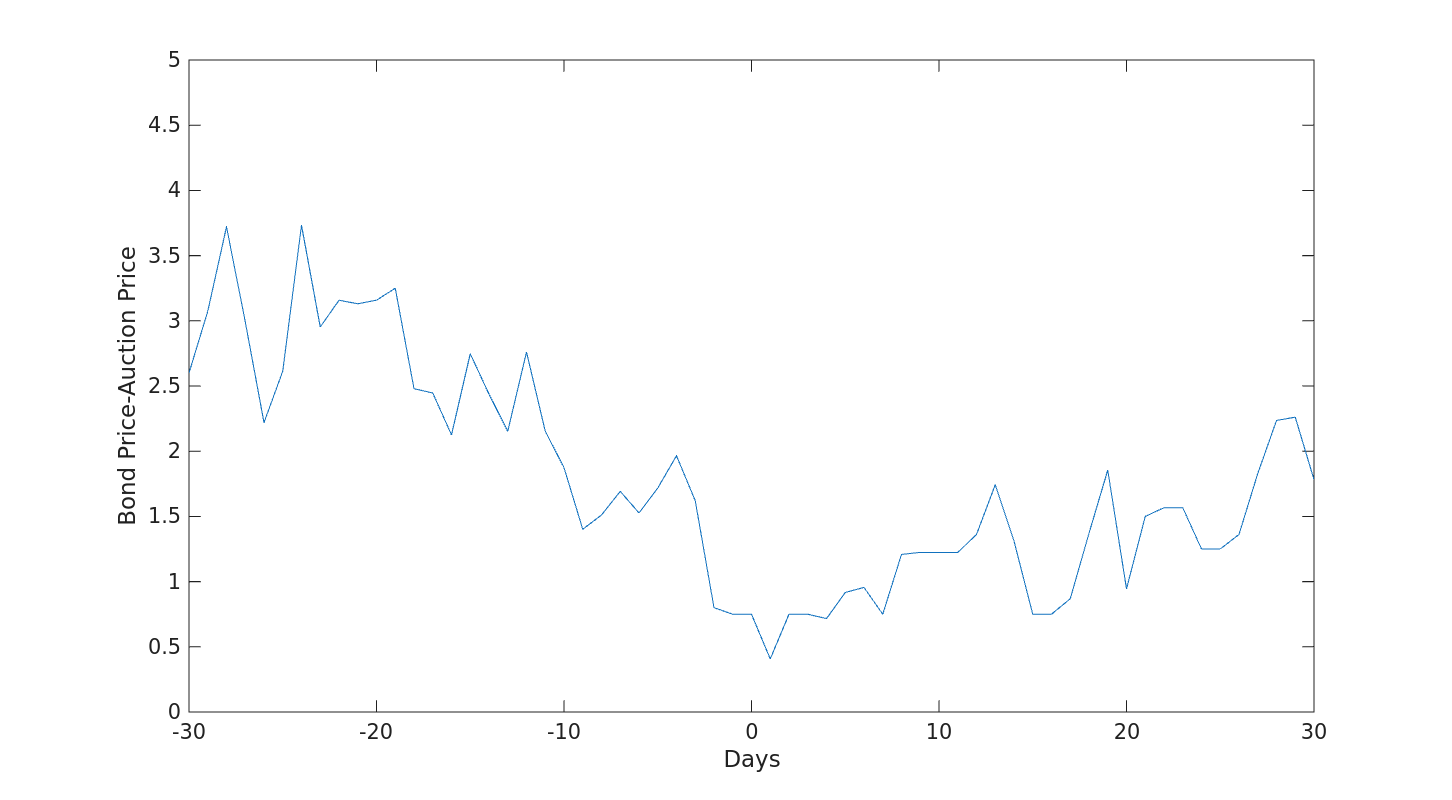
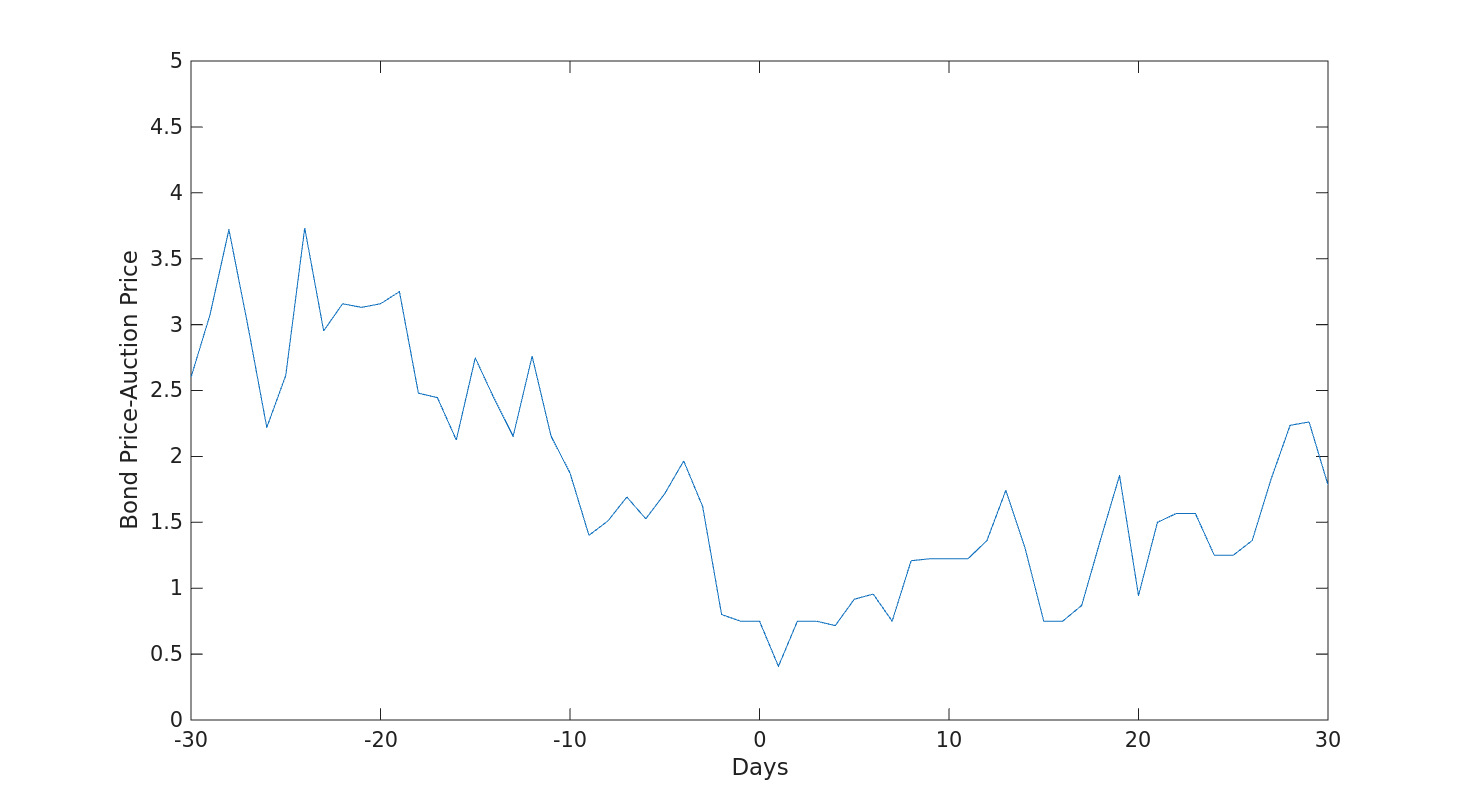
R1. After adjustment, hit another error at Stage 2 in data_summary.m (see cdsresults_log2_3.txt)

diff --git a/replication-package/CDS/output/tables/table1.tex b/replication-package/CDS/output/tables/table1.tex
@@ -1,0 +1,22 @@
+\begin{table}[htbp]
+\centering
+\caption{Initial Stage Quantities (Parker Drilling)}
+\label{tab:quantities}
+\begin{tabular}{lcc}
+\hline\hline
+Dealer & Bid/Offer & Size (\$M) \\
+\hline
+bnpparibas & Offer & 9.000 \\
+barclays & Offer & 26.974 \\
+societegenerale & -- & 0.000 \\
+merrilllynch & -- & 0.000 \\
+goldmansachs & -- & 0.000 \\
+morganstanley & Offer & 7.953 \\
+deutschebank & -- & 0.000 \\
+jpmorgan & Offer & 10.000 \\
+suisse & Bid & 6.530 \\
+\hline
+Net Open Interest & Offer & 47.397 \\
+\hline\hline
+\end{tabular}
+\end{table}

diff --git a/replication-package/CDS/output/tables/table2.tex b/replication-package/CDS/output/tables/table2.tex
@@ -1,0 +1,22 @@
+\begin{table}[htbp]
+\centering
+\caption{Initial Stage Price Quotes (Parker Drilling)}
+\label{tab:quotes}
+\begin{tabular}{lcc}
+\hline\hline
+Dealer & Bid & Offer \\
+\hline
+bnpparibas & 54.00 & 59.00 \\
+barclays & 53.00 & 58.00 \\
+societegenerale & 53.50 & 58.50 \\
+merrilllynch & 53.00 & 58.00 \\
+goldmansachs & 55.00 & 60.00 \\
+morganstanley & 51.00 & 56.00 \\
+deutschebank & 53.50 & 58.50 \\
+jpmorgan & 53.00 & 58.00 \\
+suisse & 53.00 & 58.00 \\
+\hline
+\multicolumn{3}{l}{IMM = 55.75} \\
+\hline\hline
+\end{tabular}
+\end{table}

diff --git a/replication-package/CDS/output/tables/tableOS3.tex b/replication-package/CDS/output/tables/tableOS3.tex
@@ -1,0 +1,18 @@
+\begin{table}[htbp]
+\centering
+\caption{Post-Auction Prices}
+\label{tab:os3}
+\begin{tabular}{lccc}
+\hline\hline
+ & Price after 30 Days & Price after 5 Days & Price after 1 Day \\
+\hline
+Auction price & -0.09 & 0.26 & 0.33 \\
+ & (0.38) & (0.32) & (0.27) \\
+IMM price & 1.10 & 0.75 & 0.69 \\
+ & (0.40) & (0.33) & (0.28) \\
+Constant & 1.38 & 1.95 & 0.73 \\
+ & (2.62) & (2.18) & (1.83) \\
+\hline\hline
+\end{tabular}
+\begin{tablenotes}\small\item $N = 62$. Standard errors in parentheses.\end{tablenotes}
+\end{table}

diff --git a/replication-package/CDS/code/datacleaning/acrossrounds.m b/replication-package/CDS/code/datacleaning/acrossrounds.m
@@ -40,7 +40,7 @@ end
 %figure; scatter(supp_bidtrack,supplyp-sup_IMM')
 clear sup_IMM
 
-for aa=1:size(aucidfslist)
+for aa=1:length(aucidfslist)
     tempS=unique(supp_bidtrack(aucidsupply==aucidfslist(aa)));
     for jj=1:size(tempS,1)
         nstepA(imm_bidtrack==tempS(jj) & aucidfs==aucidfslist(aa))=sum(supp_bidtrack(aucidsupply==aucidfslist(aa))==tempS(jj));
